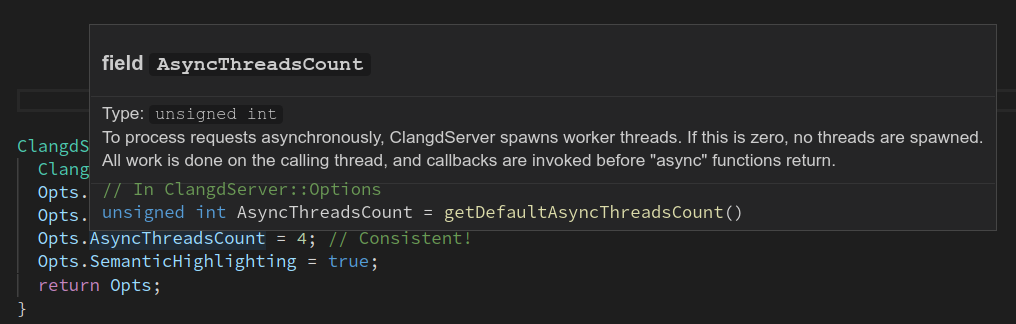
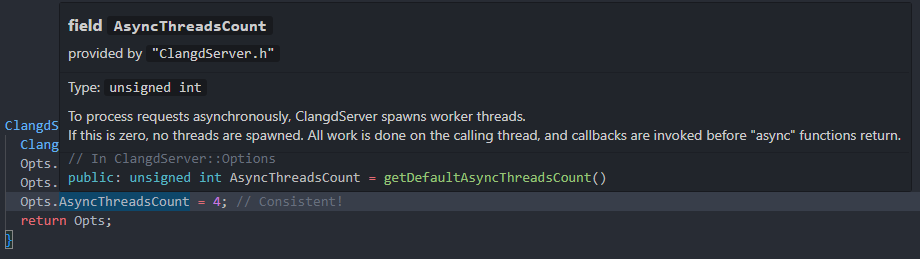
add feature docs for doxygen hover

diff --git a/features.md b/features.md
@@ -121,6 +121,17 @@ documentation, and definition.
 
 Hovering over `auto` will show the underlying type.
 
+### Documentation Parsing
+
+Symbol documentation content interpretation is configurable.
+It supports Markdown
+
+![screenshot: hover markdown](screenshots/hover_markdown.png)
+
+and Doxygen documentation comments, which extends the hover information even more
+
+![screenshot: hover doxygen](screenshots/hover_doxygen.png)
+
 ## Formatting
 
 clangd embeds [clang-format](https://clang.llvm.org/docs/ClangFormat.html),